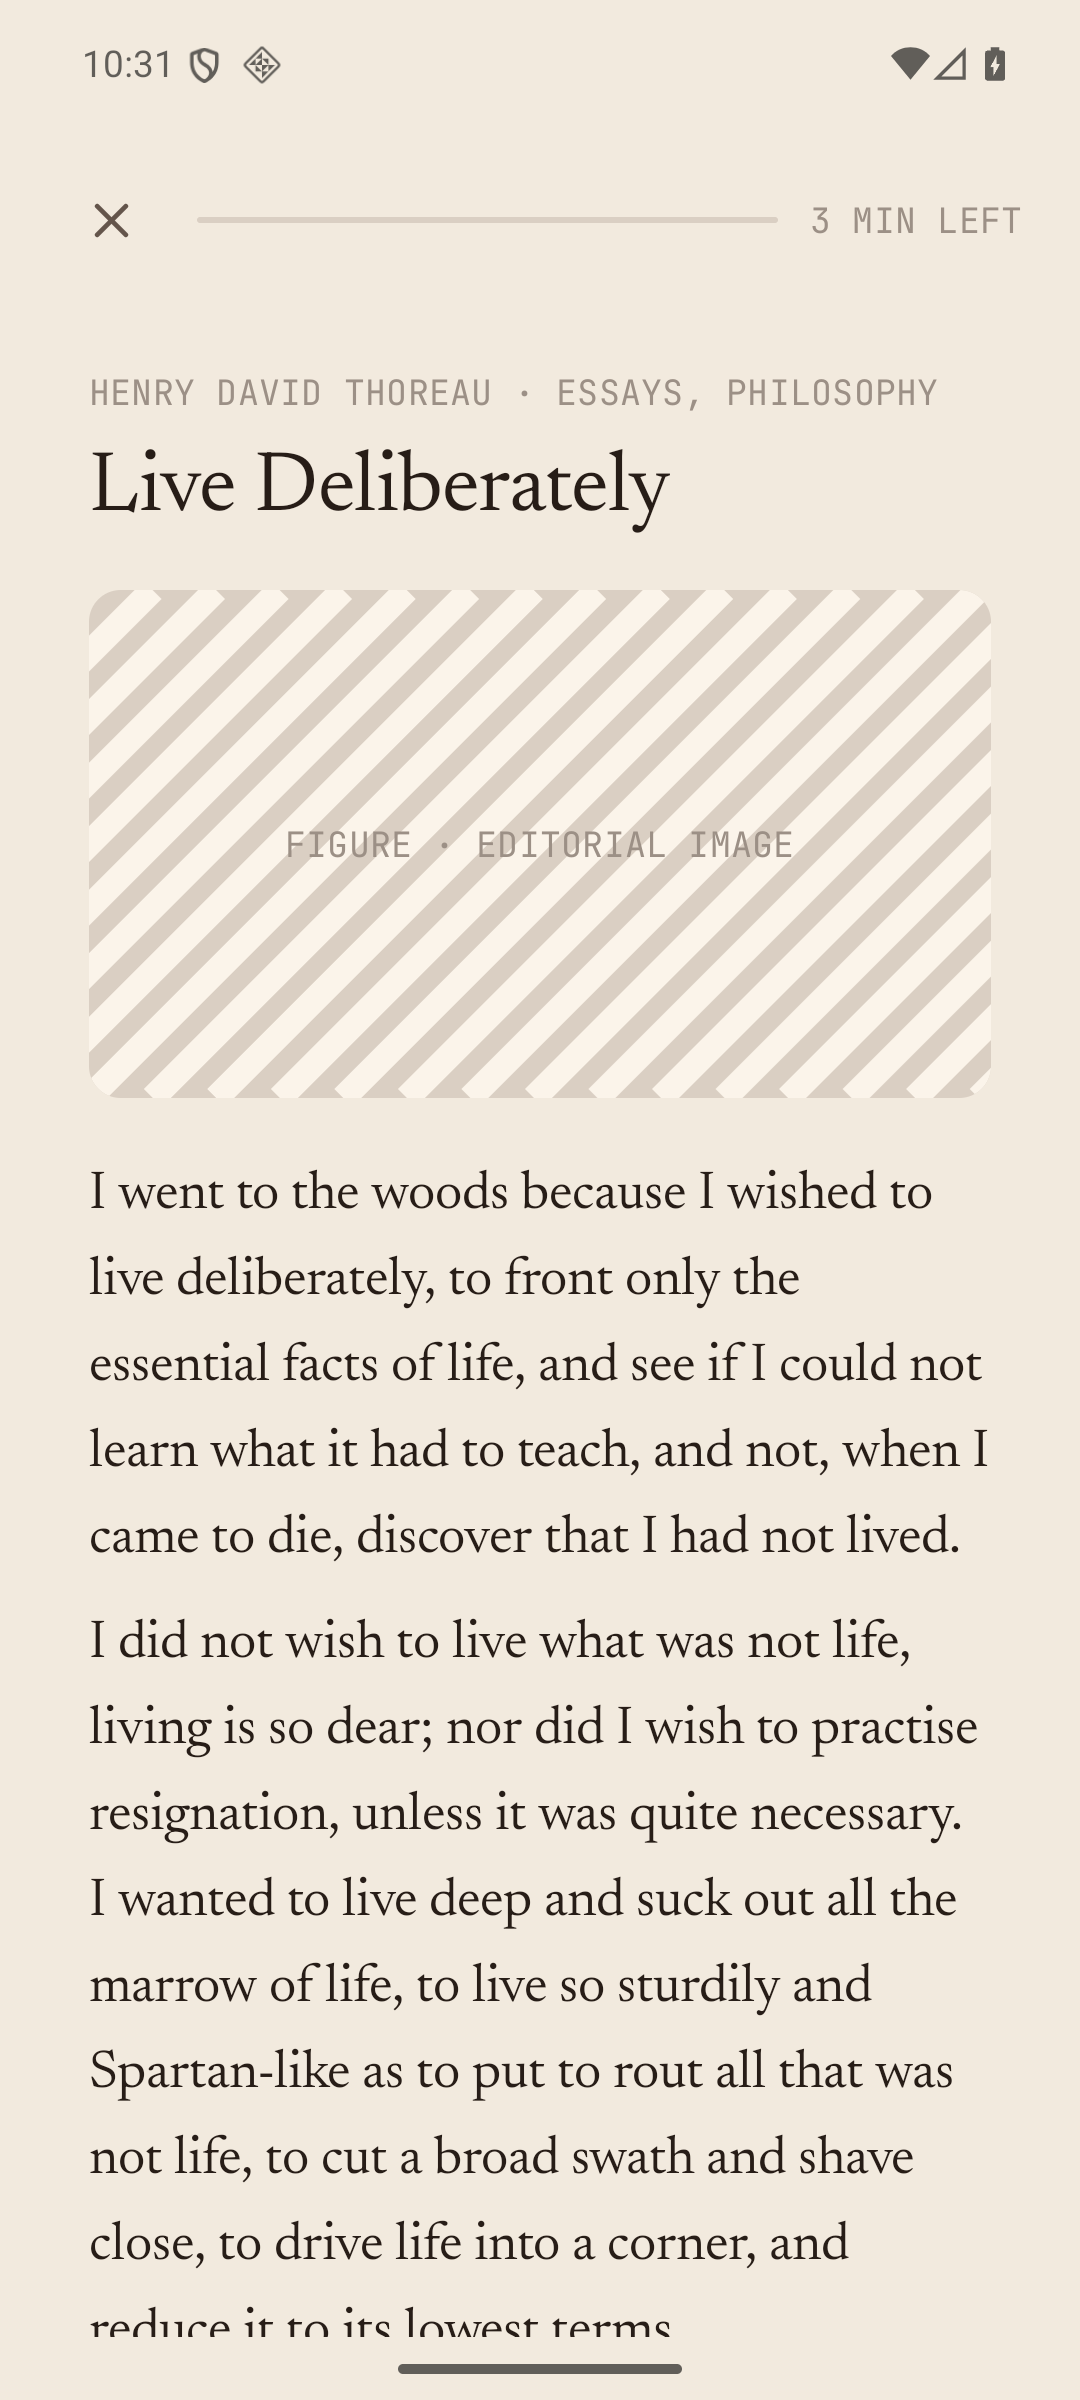
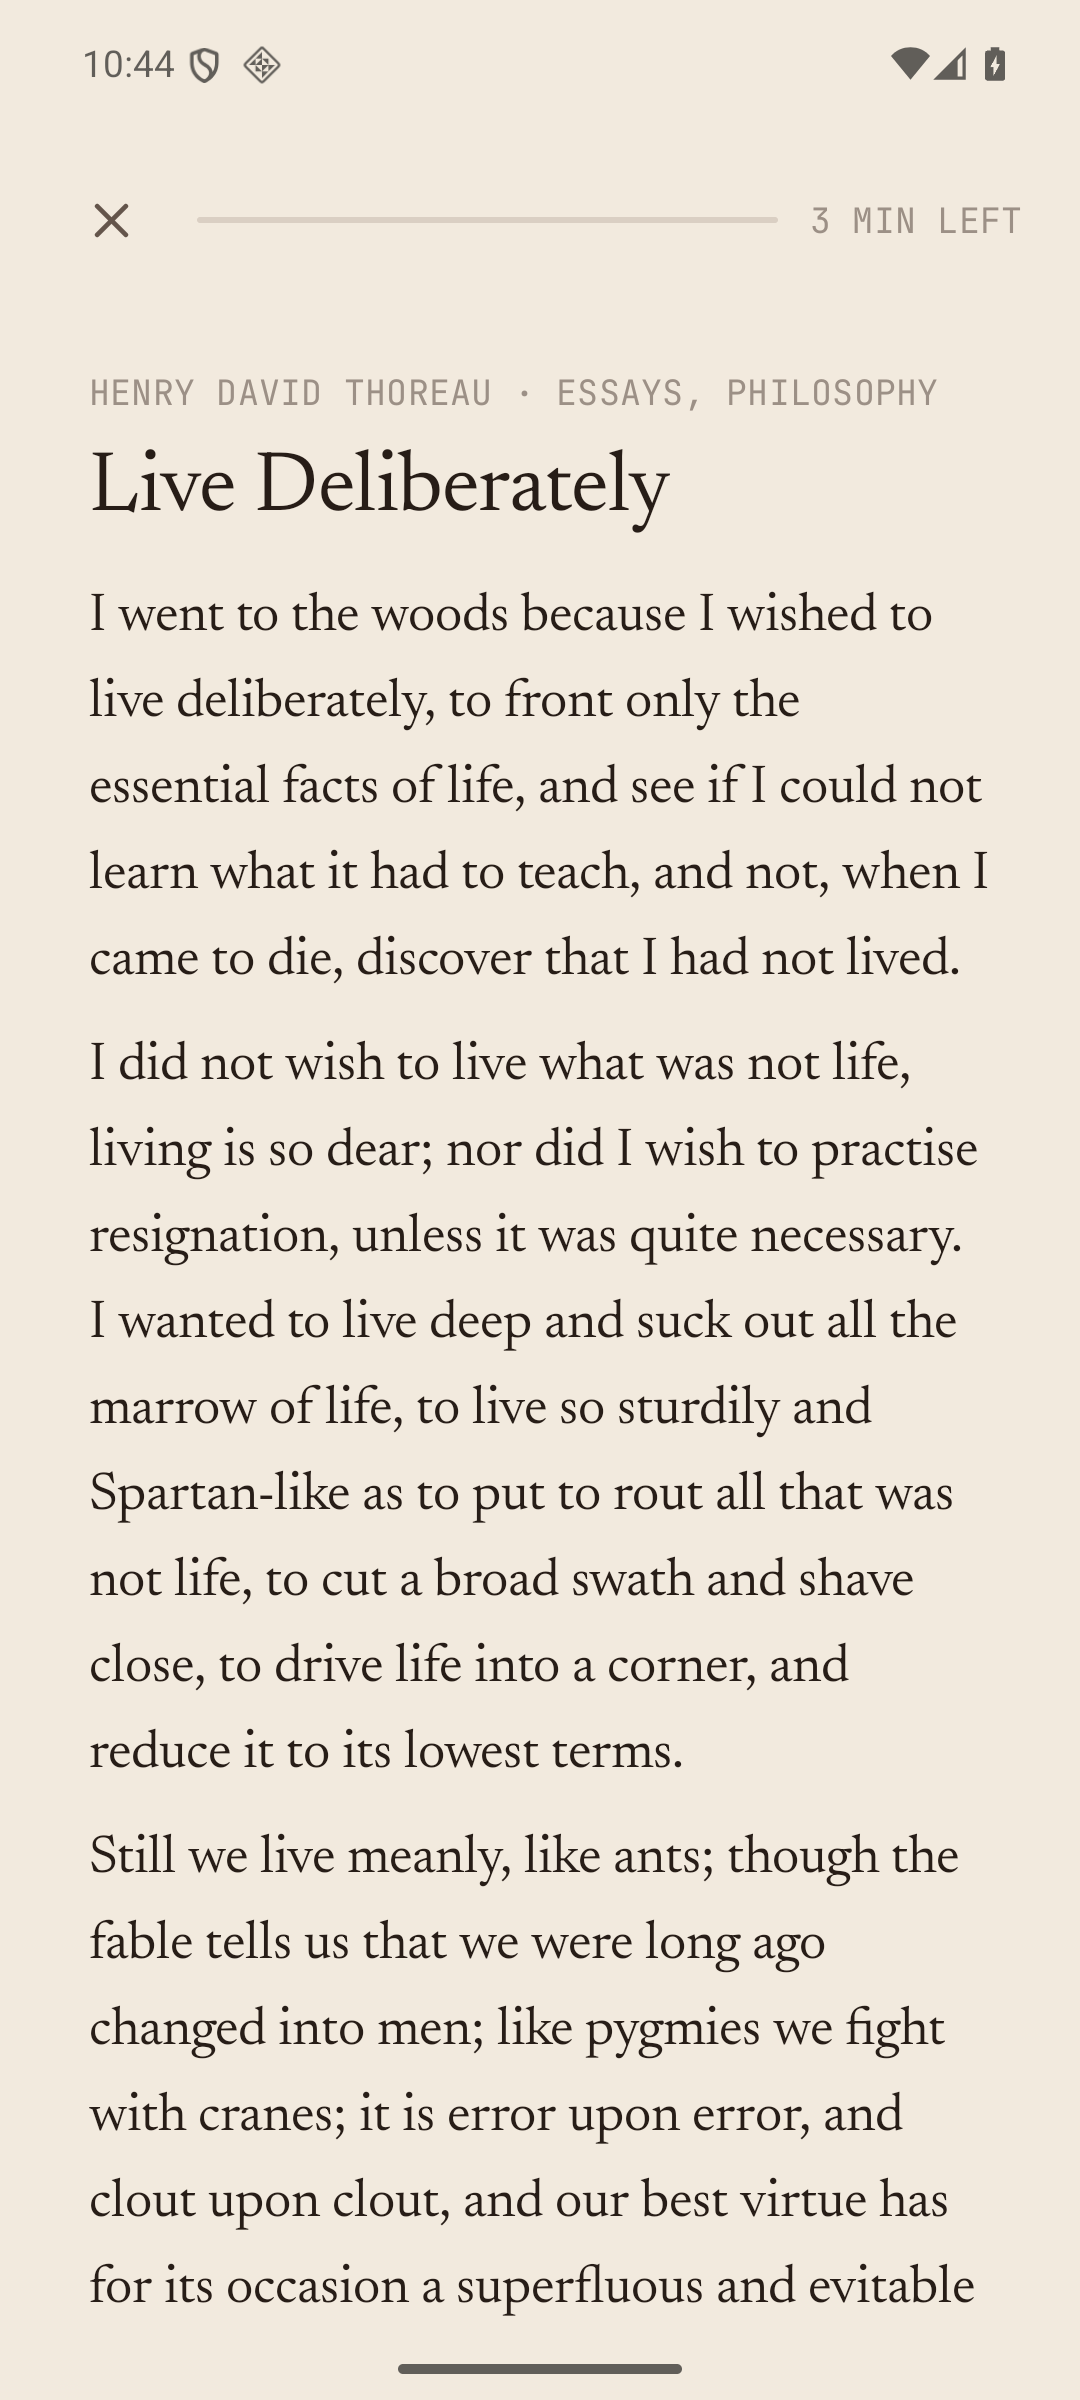
Remove reader image placeholder

Changed region(s): [[0.0611, 0.2188, 0.9167, 0.9688], [0.1222, 0.0, 0.1528, 0.0312]]

diff --git a/app/src/main/java/com/qualityalternative/app/ui/QualityAlternativeApp.kt b/app/src/main/java/com/qualityalternative/app/ui/QualityAlternativeApp.kt
@@ -55,7 +55,6 @@ import androidx.compose.runtime.setValue
 import androidx.compose.ui.Alignment
 import androidx.compose.ui.Modifier
 import androidx.compose.ui.draw.alpha
-import androidx.compose.ui.draw.drawBehind
 import androidx.compose.ui.draw.clip
 import androidx.compose.ui.graphics.Brush
 import androidx.compose.ui.graphics.Color
@@ -1203,7 +1202,6 @@ private fun ReaderScreen(
             item {
                 MonoText("${content.sourceLabel()} · ${content.topicLine()}", modifier = Modifier.padding(bottom = 10.dp))
                 DisplayText(content.title, fontSize = 27.sp, lineHeight = 31.sp, modifier = Modifier.padding(bottom = 18.dp))
-                PlaceholderImage(modifier = Modifier.padding(bottom = 22.dp))
             }
             items(paragraphs.withIndex().toList()) { indexedParagraph ->
                 Text(
@@ -2480,35 +2478,6 @@ private fun ProgressLine(progress: Int, modifier: Modifier = Modifier) {
                 .fillMaxWidth((progress / 100f).coerceIn(0f, 1f))
                 .background(colors.accent),
         )
-    }
-}
-
-@Composable
-private fun PlaceholderImage(modifier: Modifier = Modifier) {
-    val colors = QualityAlternativeThemeTokens.colors
-    Box(
-        modifier = modifier
-            .fillMaxWidth()
-            .height(160.dp)
-            .clip(RoundedCornerShape(10.dp))
-            .background(colors.line)
-            .drawBehind {
-                val stripeGap = 20.dp.toPx()
-                val stripeWidth = 8.dp.toPx()
-                var x = -size.height
-                while (x < size.width) {
-                    drawLine(
-                        color = colors.elevatedSurface,
-                        start = Offset(x, size.height),
-                        end = Offset(x + size.height, 0f),
-                        strokeWidth = stripeWidth,
-                    )
-                    x += stripeGap
-                }
-            },
-        contentAlignment = Alignment.Center,
-    ) {
-        MonoText("figure · editorial image")
     }
 }
 

diff --git a/app/src/androidTest/java/com/qualityalternative/app/MainActivityTest.kt b/app/src/androidTest/java/com/qualityalternative/app/MainActivityTest.kt
@@ -293,8 +293,9 @@ class MainActivityTest {
             hasTag("reader-screen")
         }
         composeRule.onNodeWithTag("reader-screen").assertIsDisplayed()
-        composeRule.onNodeWithText("figure · editorial image", ignoreCase = true)
-            .assertIsDisplayed()
+        composeRule.onAllNodesWithText("figure · editorial image", ignoreCase = true)
+            .fetchSemanticsNodes()
+            .also { nodes -> assertEquals(0, nodes.size) }
         composeRule.onNodeWithTag("reader-list")
             .performScrollToNode(hasText("I'm done reading"))
         composeRule.onNodeWithText("I'm done reading")

diff --git a/docs/VISUAL_QA_20260422_CONTENT_DISPLAY.md b/docs/VISUAL_QA_20260422_CONTENT_DISPLAY.md
@@ -71,6 +71,12 @@ Pass:
 Fix made during this QA pass:
 
 - Compact metadata rows now constrain long author/topic strings to one or two lines with ellipsis instead of awkward wrapping. This improves Library and backup-row readability without changing content metadata.
+- The in-app reader no longer shows the dashed placeholder illustration when an item has no `imageAssetPath`. This keeps image-less readings from looking like unfinished mockups.
+
+Refresh after placeholder removal:
+
+- Re-ran the screenshot harness on `qaApi36`.
+- Replaced the reader and contact-sheet artifacts so the baseline now reflects the no-placeholder reader layout.
 
 Non-blocker note:
 
